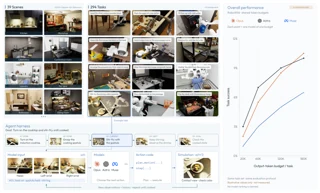
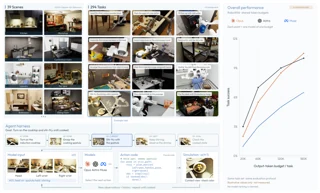
Publish A with detailed stir-fry action code

diff --git a/data.js b/data.js
@@ -1,1 +1,1 @@
[2 lines of base64/hex data omitted]

diff --git a/index.html b/index.html
@@ -1,4 +1,4 @@
 <!doctype html>
 <html lang="zh-CN"><head><meta charset="utf-8"><meta name="viewport" content="width=device-width,initial-scale=1"><meta name="description" content="RoboWild figure library. Current figures synchronized from Google Slides, with full-resolution PNG downloads."><title>RoboWild · Figure Library</title><link rel="stylesheet" href="style.css"></head>
 <body><header><a class="brand" href="./">Robo<span>Wild</span><small>FIGURE LIBRARY</small></a><div class="source"><span class="dot"></span>Google Slides 与衍生版本<small id="updated"></small></div></header>
-<main><aside><div class="list-heading"><h1>全部版本</h1><span id="count"></span></div><p class="hint">Slides 原稿 + 新增设计版本</p><nav id="versions" aria-label="图稿版本"></nav></aside><section class="viewer" aria-labelledby="title"><div class="viewer-heading"><div><p id="page-label" class="eyebrow"></p><h2 id="title"></h2><p id="dimensions" class="hint"></p></div><div class="actions"><a id="open" target="_blank" rel="noopener">打开原图 ↗</a><a id="download" class="primary" download>下载 PNG ↓</a></div></div><a id="image-link" target="_blank" rel="noopener" title="打开原尺寸 PNG"><img id="figure" alt="" width="3200" height="3390"></a><footer><span>原稿同步保留 · 衍生版本独立展示</span><span id="position"></span></footer></section></main><noscript>请启用 JavaScript 查看和切换全部图稿。</noscript><script src="data.js?v=57842d8c82f2d434"></script><script src="app.js?v=57842d8c82f2d434"></script></body></html>
+<main><aside><div class="list-heading"><h1>全部版本</h1><span id="count"></span></div><p class="hint">Slides 原稿 + 新增设计版本</p><nav id="versions" aria-label="图稿版本"></nav></aside><section class="viewer" aria-labelledby="title"><div class="viewer-heading"><div><p id="page-label" class="eyebrow"></p><h2 id="title"></h2><p id="dimensions" class="hint"></p></div><div class="actions"><a id="open" target="_blank" rel="noopener">打开原图 ↗</a><a id="download" class="primary" download>下载 PNG ↓</a></div></div><a id="image-link" target="_blank" rel="noopener" title="打开原尺寸 PNG"><img id="figure" alt="" width="3200" height="3390"></a><footer><span>原稿同步保留 · 衍生版本独立展示</span><span id="position"></span></footer></section></main><noscript>请启用 JavaScript 查看和切换全部图稿。</noscript><script src="data.js?v=e4964cb31004db5a"></script><script src="app.js?v=e4964cb31004db5a"></script></body></html>
